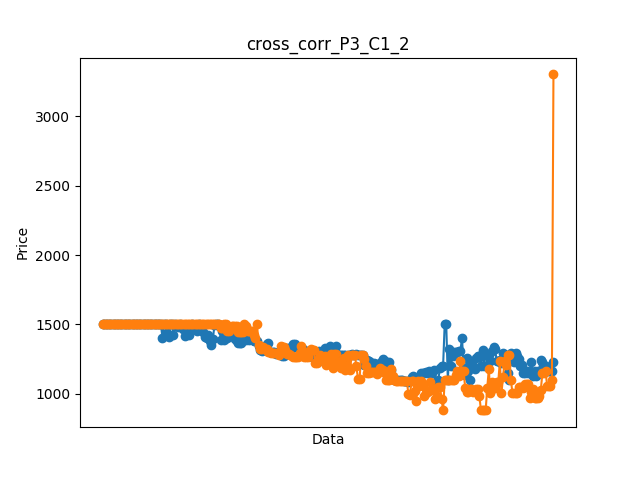
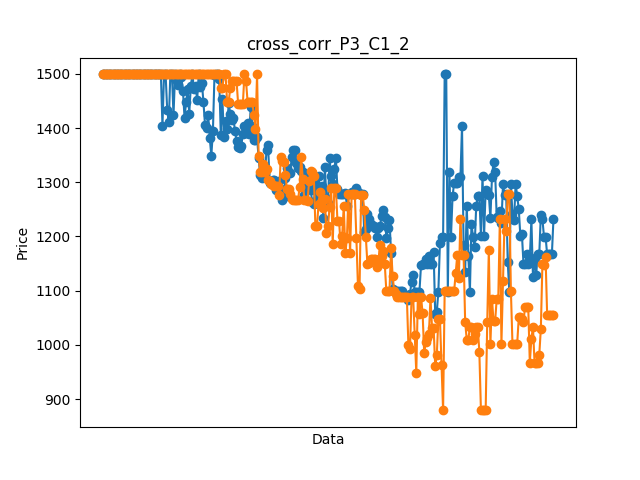
removing competitors price outliers and fixing init.sql

diff --git a/Scripts/app/src/app.py b/Scripts/app/src/app.py
@@ -335,6 +335,7 @@ def metrics():
   MIN(COMPETITOR_PRICE) as MIN, MAX(COMPETITOR_PRICE) as MAX, 
   AVG(COMPETITOR_PRICE) as AVG_COMP_PRICE, PAY_TYPE
   FROM comp_prices
+  WHERE DATE_EXTRACTION < '2015-10-13'
   GROUP BY PROD_ID, DATE, COMPETITOR, PAY_TYPE
   ORDER BY STR_TO_DATE(DATE, '%d-%m-%Y');
   """
@@ -375,6 +376,8 @@ def metrics():
         
         if index in skip_index: continue
         temp = [row for row in comp if (row["COMPETITOR"]==c and row["PROD_ID"]==p and row["PAY_TYPE"]==pt)]
+        for t in temp:
+          if t["MAX"]> 5000: print(t)
         if len(temp) < 200:
           skip_index.append(index)
           #print("not enough data: "+index)
@@ -412,6 +415,7 @@ def metrics():
     corrDict[index][qty_str] = float(qty)
     corrDict[index][price_str] = float(avg_price)
 
+  #print(filled_comp)
   for row in filled_comp:
     date = row["DATE"].toordinal()
     index = str(date)
@@ -419,6 +423,7 @@ def metrics():
     comp_id = row["COMPETITOR"]
     pt_id = row["PAY_TYPE"]
     avg_comp_price = row["AVG_COMP_PRICE"]
+    #if row["MAX"] > 3000: print(row)
     comp_price_str = "{}_{}_{}".format(comp_id, product_id, pt_id)
 
     if not index in corrDict:
@@ -428,7 +433,7 @@ def metrics():
 
   #print(corrDict["735883"])
   corrDF = pd.DataFrame(corrDict)
-  #print(corrDF)
+  print(corrDF)
   #print(corrDF.T)
   correlation = corrDF.T.corr()
   n = 3
@@ -458,7 +463,6 @@ def metrics():
 
         sales_column = corrDF[prod_idx]
         comp_column = corrDF[comp_index]
-        #print(comp_column)
         delayed_comp_matrix = shift_data(comp_column, 7)
         delayed_data_matrix = pd.concat([sales_column, delayed_comp_matrix], axis=1).dropna()
         #print(sales_column)        
@@ -468,6 +472,8 @@ def metrics():
         if len(filtered) > 1:
           name = "cross_corr_{}_{}_{}".format(prod, c, pt)
           plot_data((range(len(sales_column)),sales_column), (range(len(comp_column)),comp_column.T), None, "Price", name)
+          #print(comp_column)
+          #print(comp_column.T)
 
         #return
 
